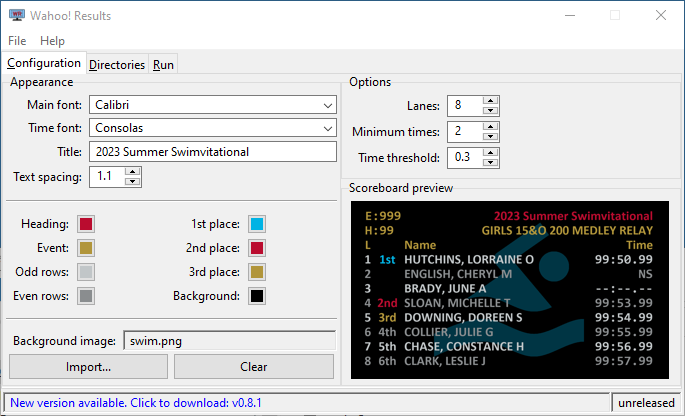
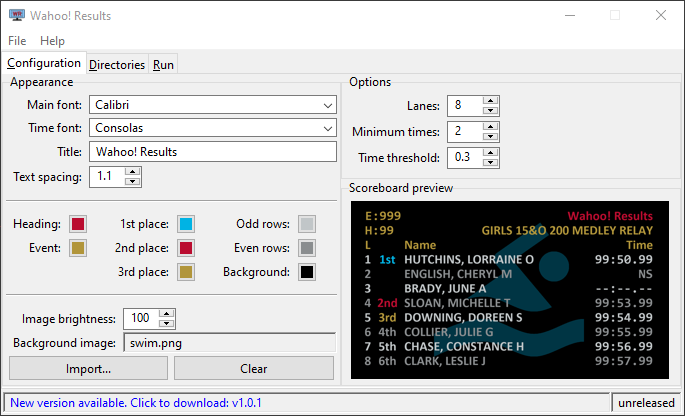
Add documentation for bg image brightness

diff --git a/docs/configuration.rst b/docs/configuration.rst
@@ -48,12 +48,13 @@ Title
     other information.
 Text spacing
     This controls the amount of vertical space between lines of text.
-
-Text colors can be customized by clicking on the color swatches and choosing a
-new color.
-
-A background image can be inserted using the "Import..." button. The
-background image should be a 1280x720 PNG image.
+Text colors
+    The colors can be customized by clicking on the color swatches and choosing
+    a new color.
+Background image
+    A background image can be inserted using the "Import..." button. The image
+    should be a 1280x720 PNG image. Once imported, the "image brightness"
+    adjustment can be used to dim the image if it is too bright.
 
 -----
 
